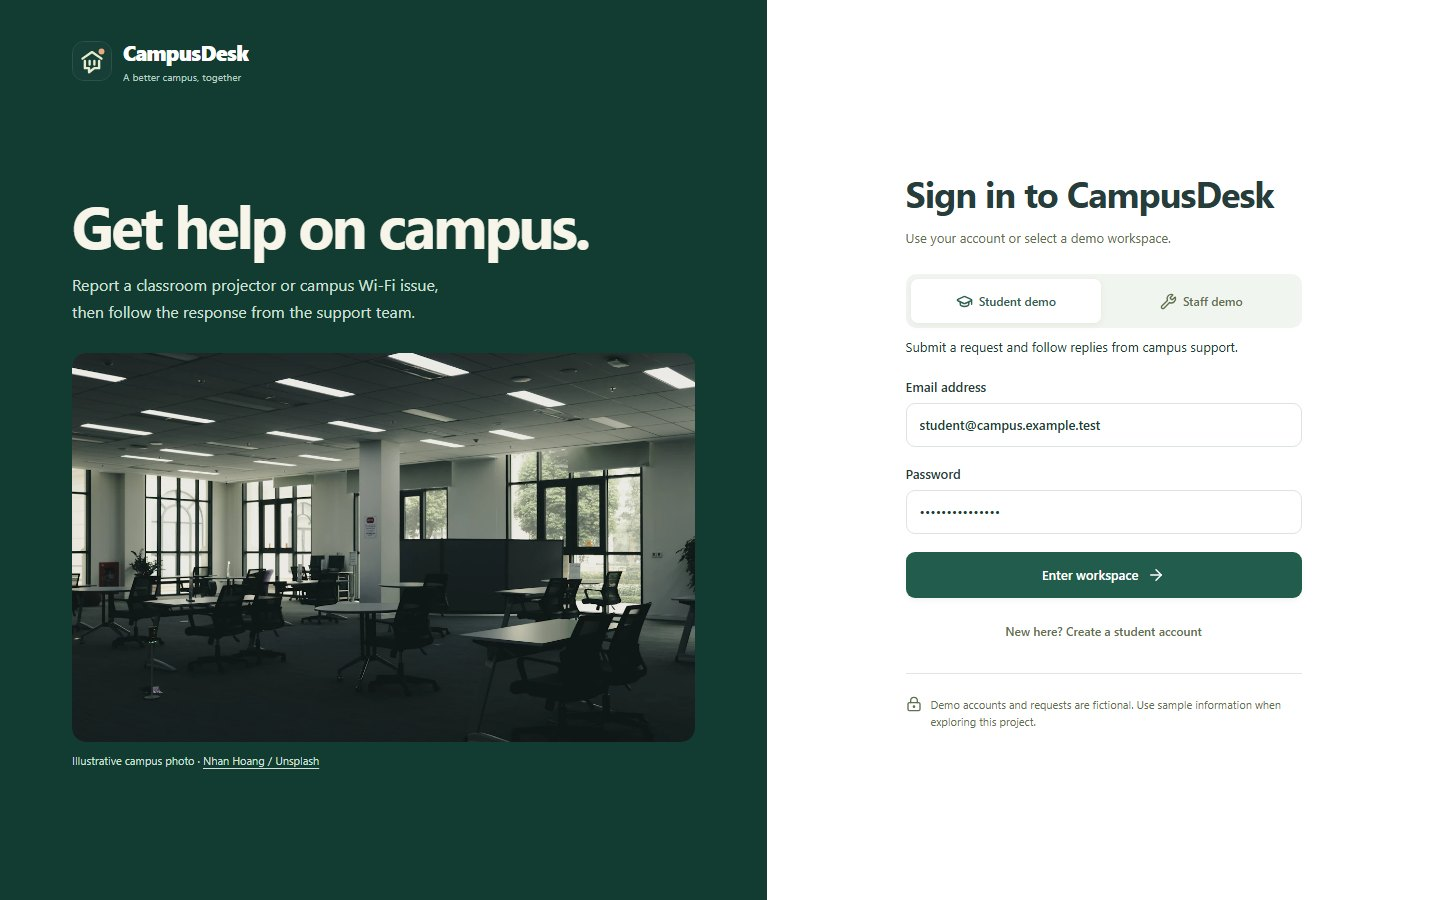
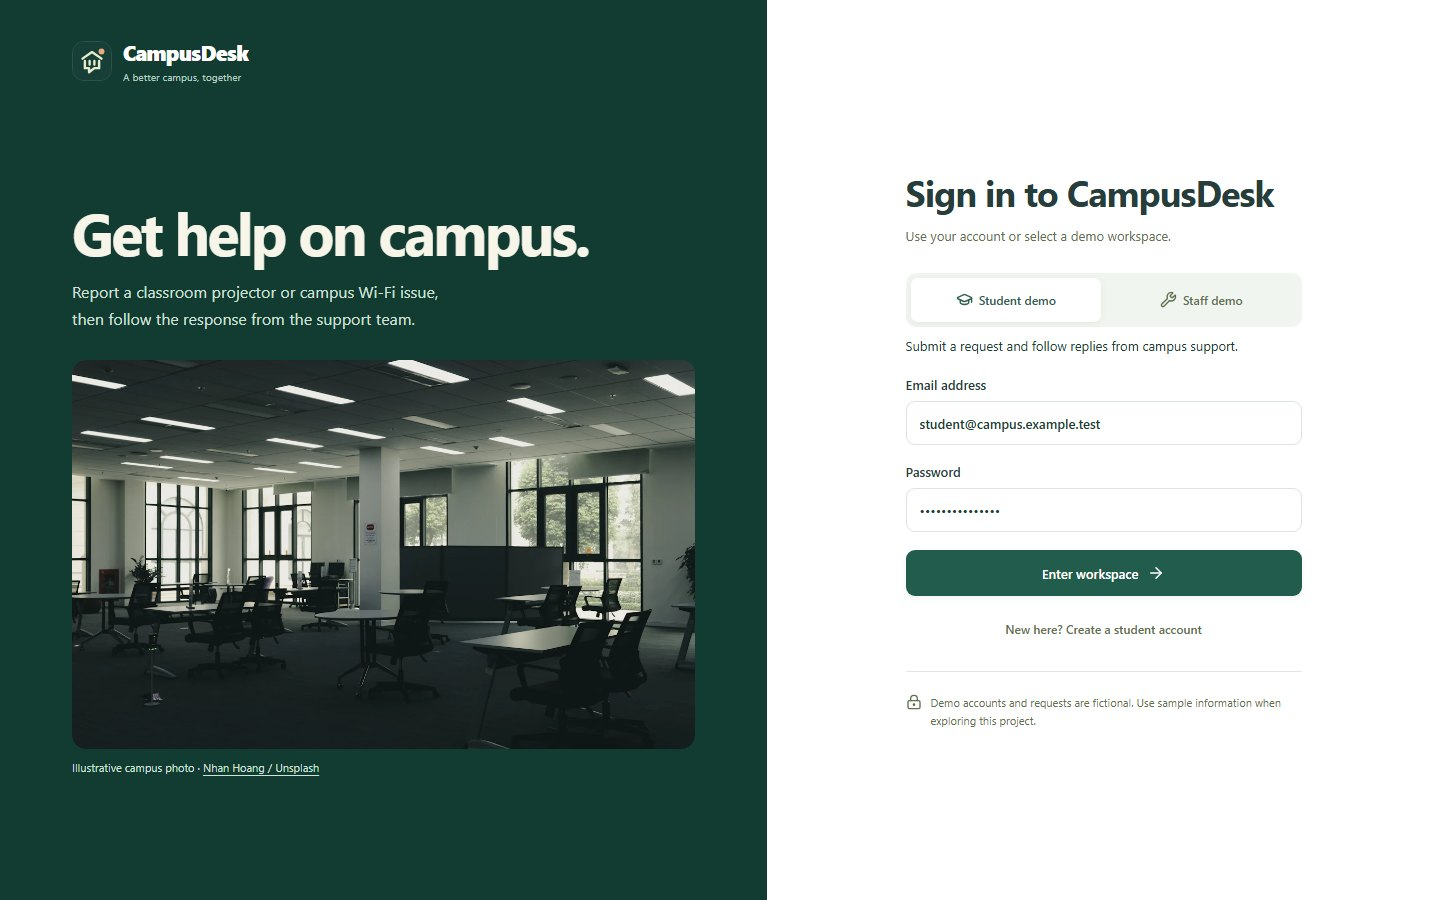
Put CampusDesk sign-in first on mobile

diff --git a/src/App.tsx b/src/App.tsx
@@ -158,32 +158,12 @@ function Login({ onLogin }: { onLogin: (session: Session) => void }) {
   }
   return (
     <main className="login-layout">
-      <section className="login-story">
+      <header className="login-brand">
         <Brand light />
-        <div className="story-copy">
-          <h1>Get help on campus.</h1>
-          <p>
-            Report a classroom projector or campus Wi-Fi issue, then follow the response from the
-            support team.
-          </p>
-          <figure className="story-photo">
-            <img
-              src="/campus-classroom.webp"
-              alt="An empty university classroom with desks, chairs, and tall windows"
-              width="1200"
-              height="800"
-              fetchPriority="high"
-            />
-            <figcaption>
-              Illustrative campus photo ·{' '}
-              <a href="https://unsplash.com/photos/j3eaegN9j_g">Nhan Hoang / Unsplash</a>
-            </figcaption>
-          </figure>
-        </div>
-      </section>
+      </header>
       <section className="login-form-area">
         <div className="login-box">
-          <h2>{register ? 'Create a student account' : 'Sign in to CampusDesk'}</h2>
+          <h1>{register ? 'Create a student account' : 'Sign in to CampusDesk'}</h1>
           <p>
             {register
               ? 'Create a student account to submit your own requests.'
@@ -282,6 +262,28 @@ function Login({ onLogin }: { onLogin: (session: Session) => void }) {
               project.
             </p>
           </div>
+        </div>
+      </section>
+      <section className="login-story" aria-labelledby="login-story-title">
+        <div className="story-copy">
+          <h2 id="login-story-title">Get help on campus.</h2>
+          <p>
+            Report a classroom projector or campus Wi-Fi issue, then follow the response from the
+            support team.
+          </p>
+          <figure className="story-photo">
+            <img
+              src="/campus-classroom.webp"
+              alt="An empty university classroom with desks, chairs, and tall windows"
+              width="1200"
+              height="800"
+              loading="lazy"
+            />
+            <figcaption>
+              Illustrative campus photo ·{' '}
+              <a href="https://unsplash.com/photos/j3eaegN9j_g">Nhan Hoang / Unsplash</a>
+            </figcaption>
+          </figure>
         </div>
       </section>
     </main>

diff --git a/src/styles.css b/src/styles.css
@@ -292,23 +292,33 @@ small {
 }
 .login-layout {
   display: grid;
-  grid-template-columns: minmax(0, 1.14fr) minmax(0, 1fr);
+  grid-template:
+    'brand form' auto
+    'story form' 1fr / minmax(0, 1.14fr) minmax(0, 1fr);
   min-height: 100svh;
   background: #fff;
 }
+.login-brand,
 .login-story {
   background: #123b32;
   color: #fff;
-  padding: 38px clamp(32px, 5vw, 72px);
+  padding-inline: clamp(32px, 5vw, 72px);
+}
+.login-brand {
+  grid-area: brand;
+  padding-top: 38px;
+}
+.login-story {
+  grid-area: story;
   display: flex;
   flex-direction: column;
 }
 .story-copy {
   margin: auto 0;
-  padding: 48px 0 32px;
+  padding: 48px 0 56px;
   max-width: 740px;
 }
-.story-copy h1 {
+.story-copy h2 {
   font-size: clamp(34px, 4.1vw, 61px);
   line-height: 1.08;
   letter-spacing: -0.045em;
@@ -345,6 +355,7 @@ small {
   text-underline-offset: 3px;
 }
 .login-form-area {
+  grid-area: form;
   display: flex;
   align-items: center;
   justify-content: center;
@@ -354,7 +365,7 @@ small {
   width: 396px;
   max-width: 100%;
 }
-.login-box h2 {
+.login-box h1 {
   font-size: clamp(25px, 2.8vw, 36px);
   letter-spacing: -1px;
   margin-bottom: 10px;
@@ -2275,15 +2286,25 @@ tbody tr:hover {
     font-size: 14px;
   }
   .login-layout {
-    grid-template-columns: minmax(0, 1fr);
+    grid-template:
+      'brand' auto
+      'form' auto
+      'story' 1fr / minmax(0, 1fr);
+  }
+  .login-brand {
+    padding: 16px clamp(18px, 6vw, 34px);
   }
   .login-story {
-    padding: 20px clamp(18px, 6vw, 34px) 18px;
+    padding: 22px clamp(18px, 6vw, 34px) 26px;
   }
   .story-copy {
-    padding: 22px 0 0;
+    width: 100%;
+    max-width: 420px;
+    margin-inline: auto;
+    padding: 0;
   }
-  .story-copy h1 {
+  .story-copy h2 {
+    font-size: clamp(24px, 5vw, 32px);
     margin-bottom: 8px;
   }
   .story-copy > p {
@@ -2297,10 +2318,13 @@ tbody tr:hover {
     aspect-ratio: auto;
   }
   .login-form-area {
-    padding: 30px clamp(18px, 6vw, 34px) 36px;
+    padding: 28px clamp(18px, 6vw, 34px);
   }
   .login-box {
     width: 420px;
+  }
+  .login-box input {
+    font-size: 16px;
   }
 }
 @media (max-width: 480px) {
